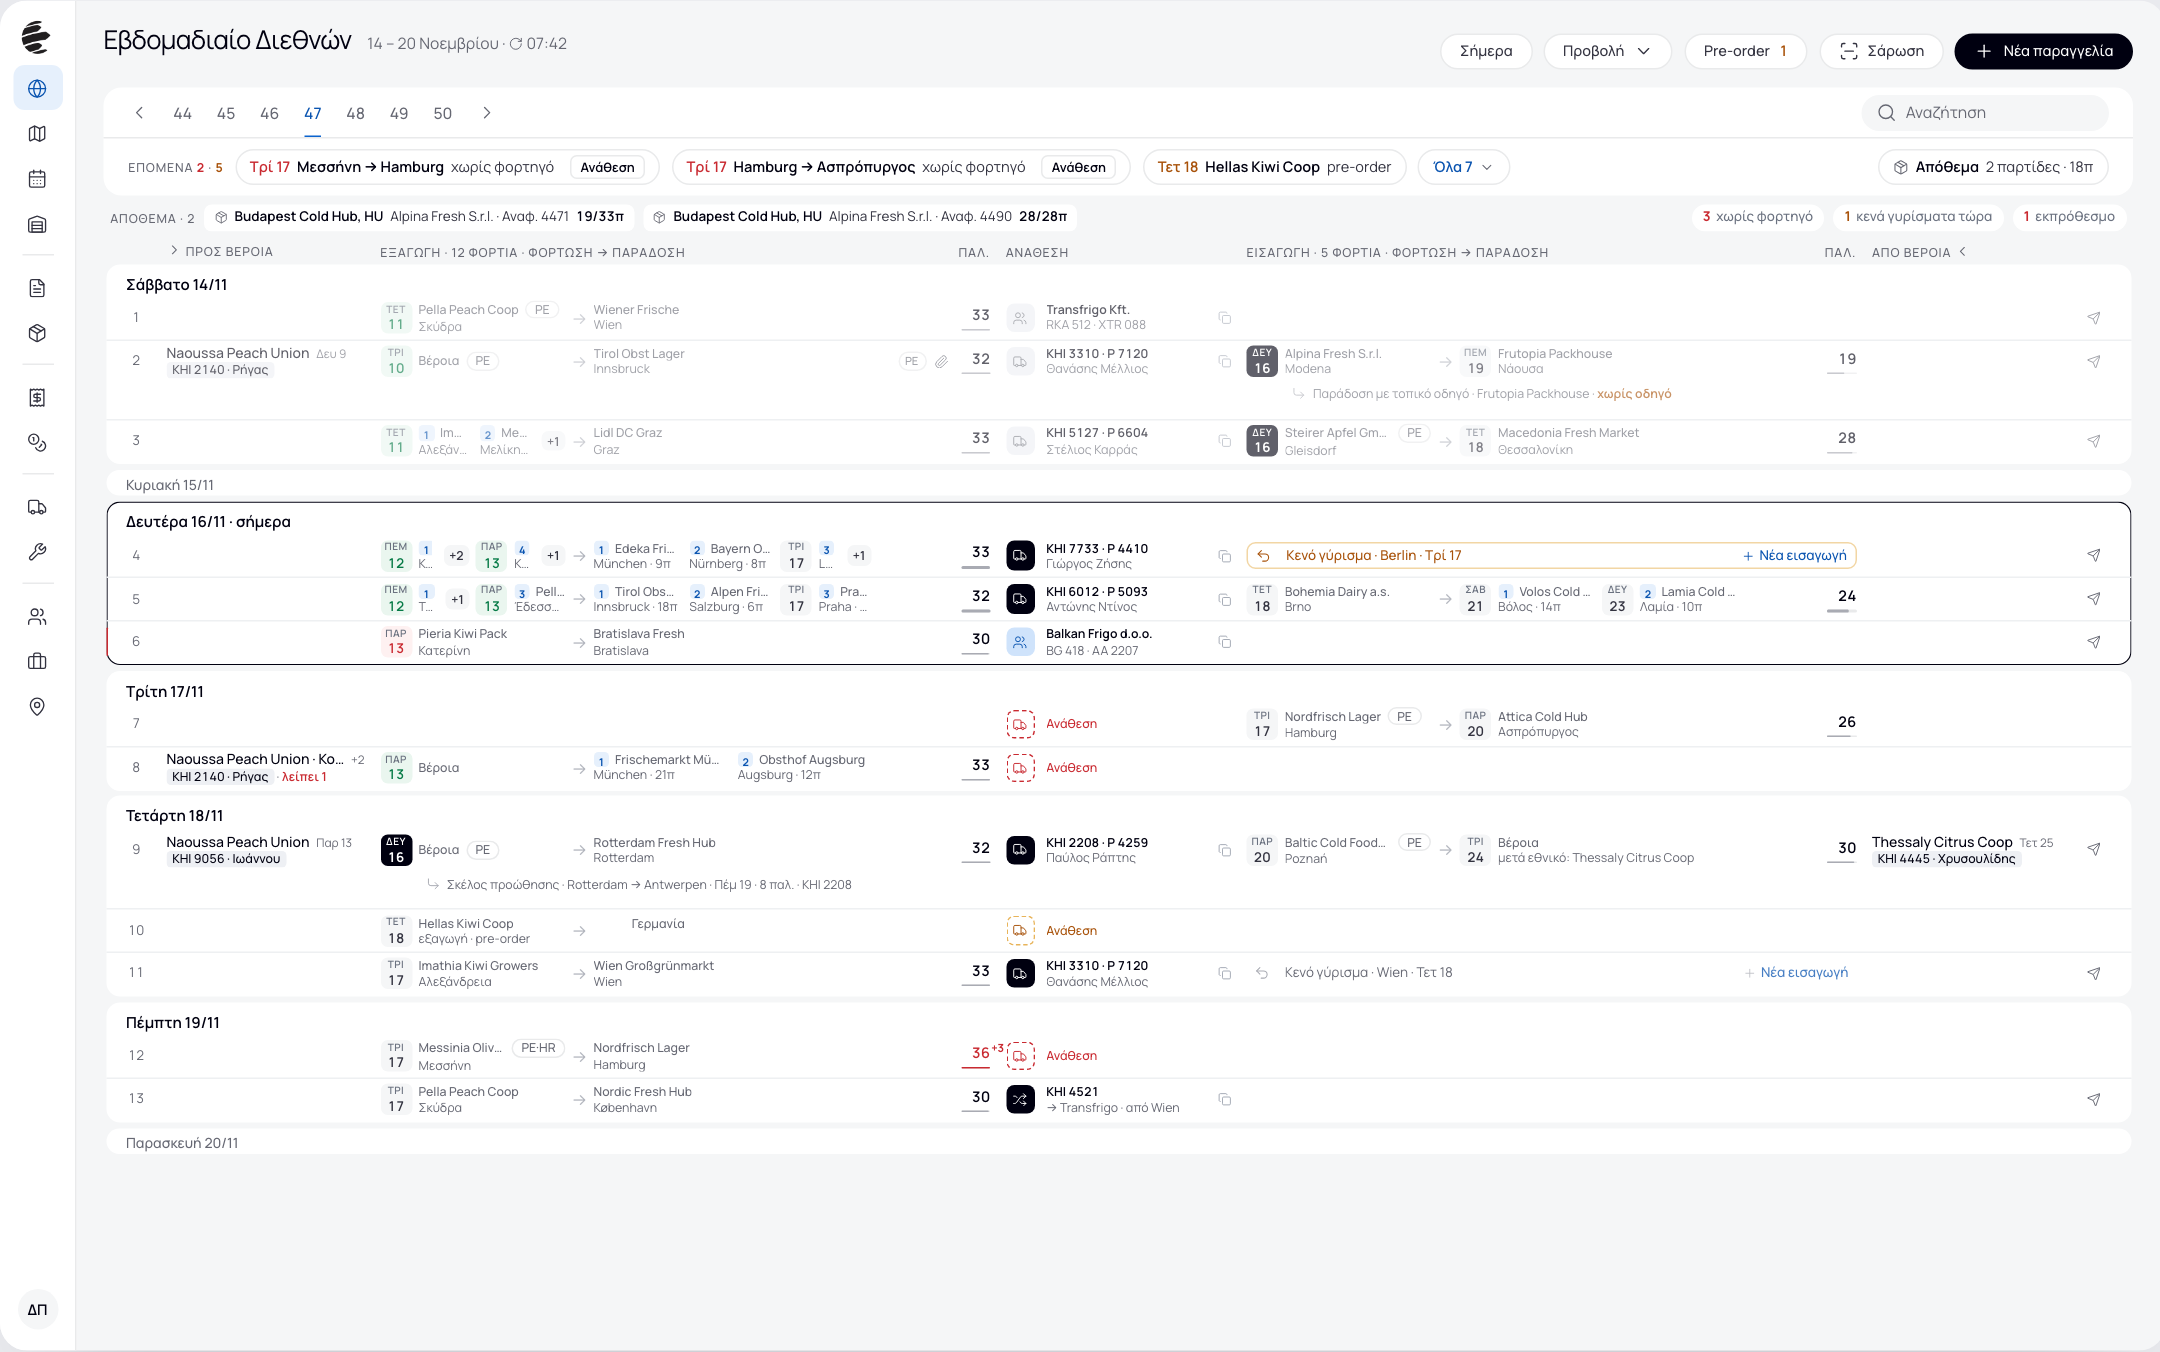
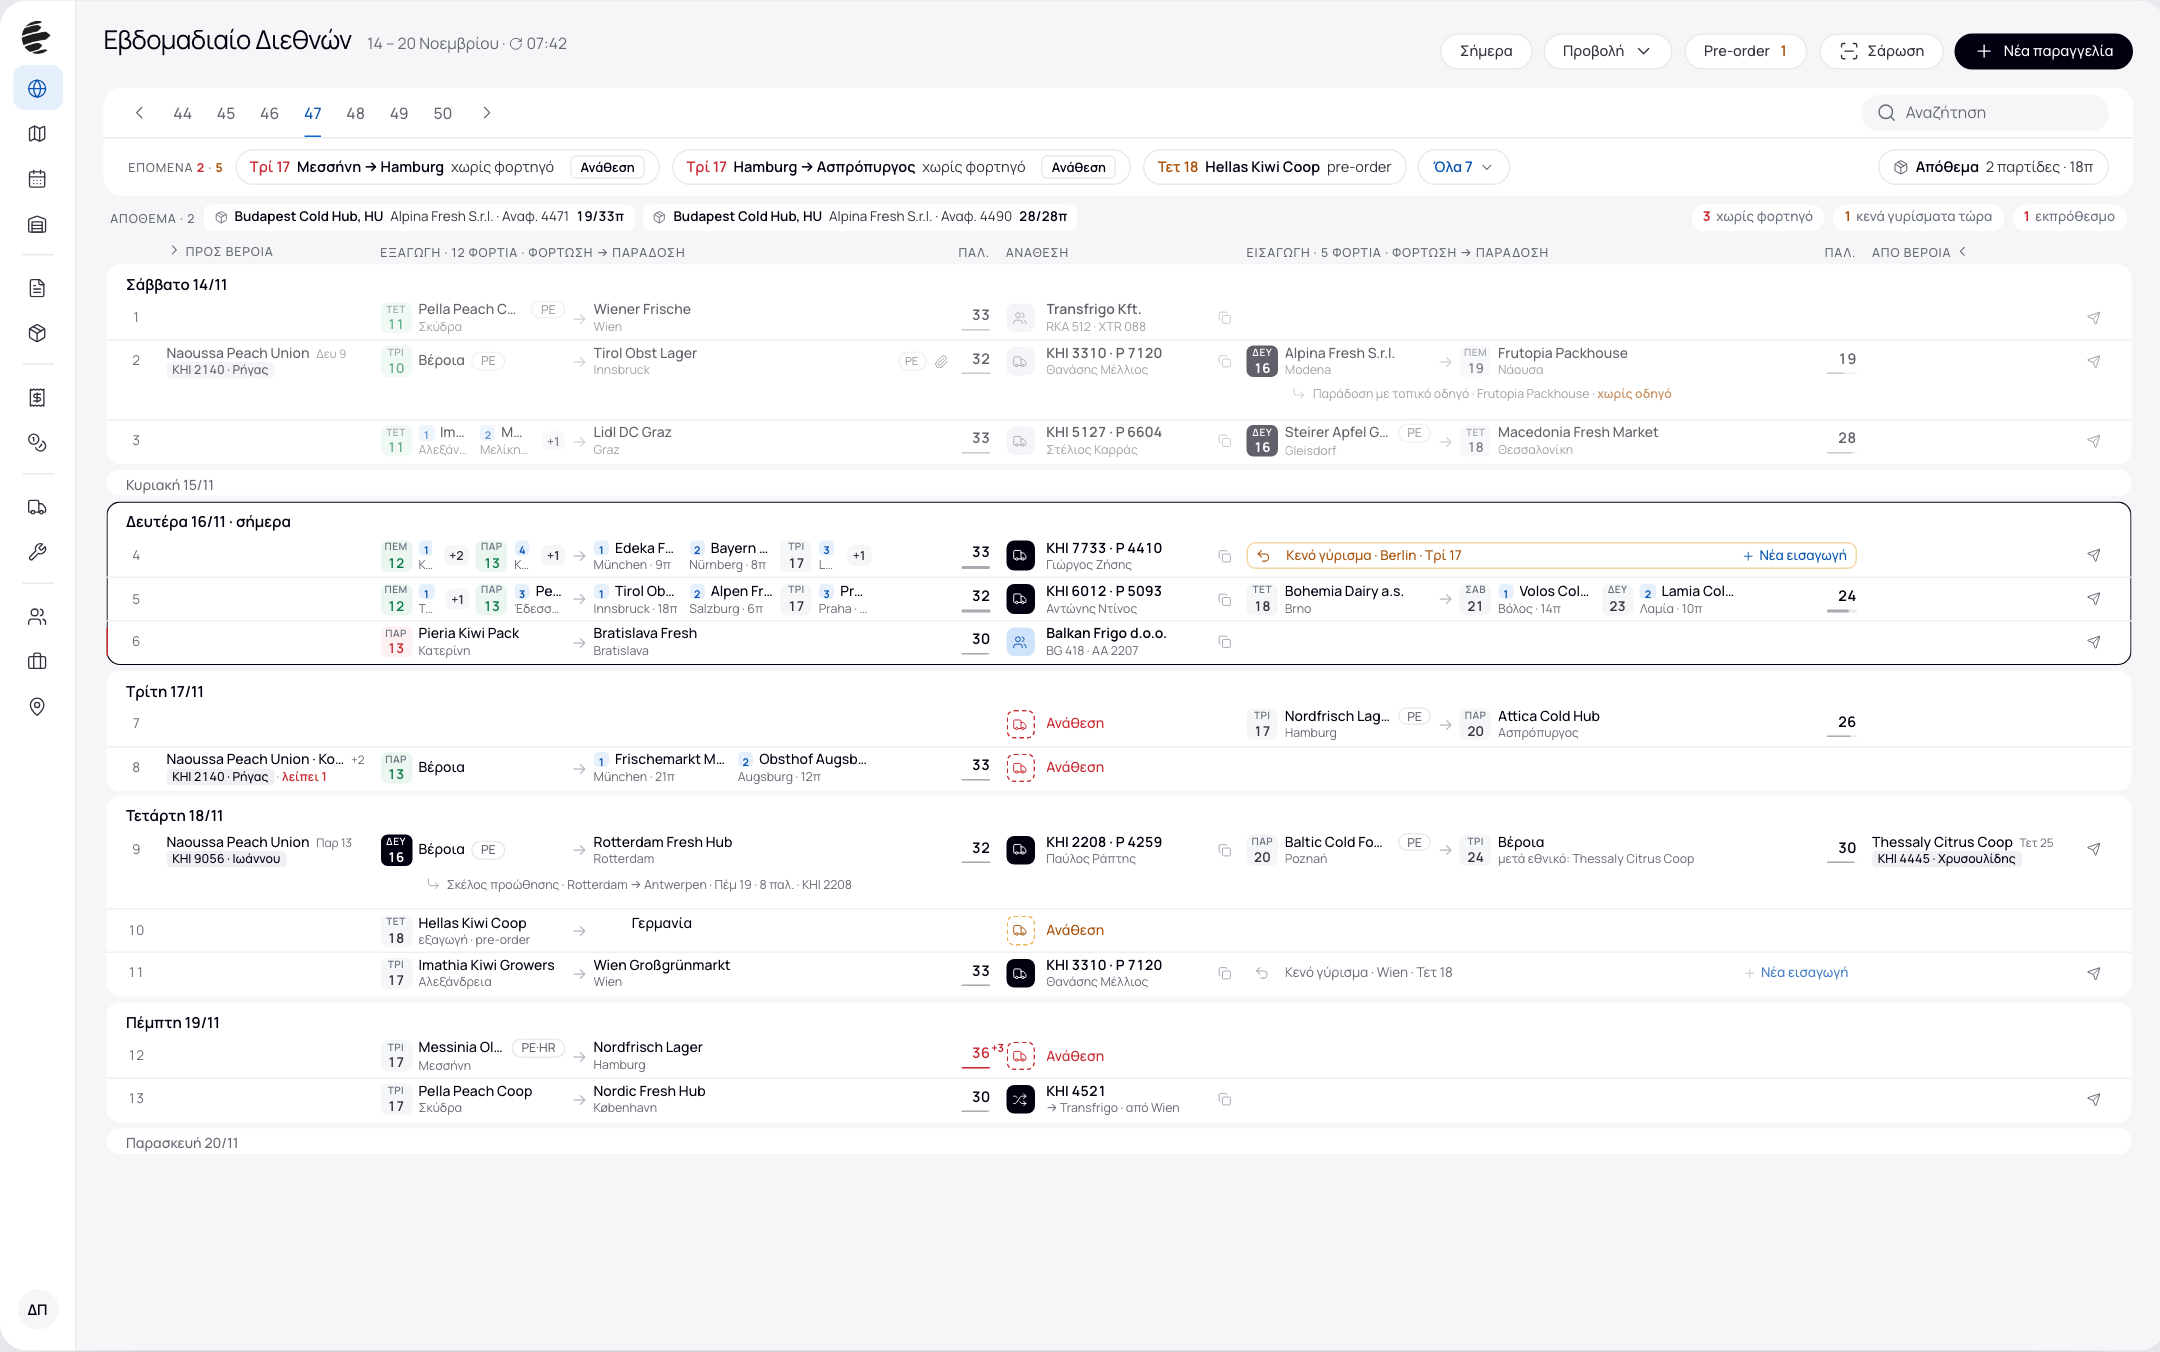
docs(redesign): place names in ink at full size, the town under them grey — the second-line rule was also catching the name (owner 15/11)

diff --git a/docs/design/redesign-2026-11/index.html b/docs/design/redesign-2026-11/index.html
@@ -541,6 +541,8 @@ table.spec td b{color:var(--ink);font-weight:600}
 /* the national panel's hover table */
 .w9vp .vpr span{display:block;white-space:nowrap;overflow:hidden;text-overflow:ellipsis;font-size:12px;line-height:16px;color:var(--body)}.w9vp .vpr b{display:inline;font-size:12px;font-weight:600}.w9vp h5{font-size:12.5px}
 .w9v,.w9vm{position:relative}.w9vp{display:none;left:0;top:calc(100% + 3px);width:440px;text-align:left;font-weight:400}.w9v:hover .w9vp,.w9vm:hover .w9vp{display:block}.vpop.w9vp .vpr{grid-template-columns:minmax(0,1.5fr) 56px minmax(0,1fr)}
+/* the name of a place is ink, the town under it is grey (owner 15/11); the rule for the grey second line was also catching the name's inner span */
+#f5 .w9p b .el,#f5 .w9as b .el,#f5 .w9v b .el,.w9p b .el,.w9as b .el,.w9v b .el{color:inherit;font-size:inherit;font-weight:inherit;line-height:inherit}
 /* cycle 3 of critics (15/11) */
 .w9hf{position:relative}.w9hf:hover>.w9pp{display:block}.w9pp{width:420px}
 #f5 .w9gap a.alt{display:none;opacity:1}#f5 .w9row:hover .w9gap a.alt{display:inline-flex}
